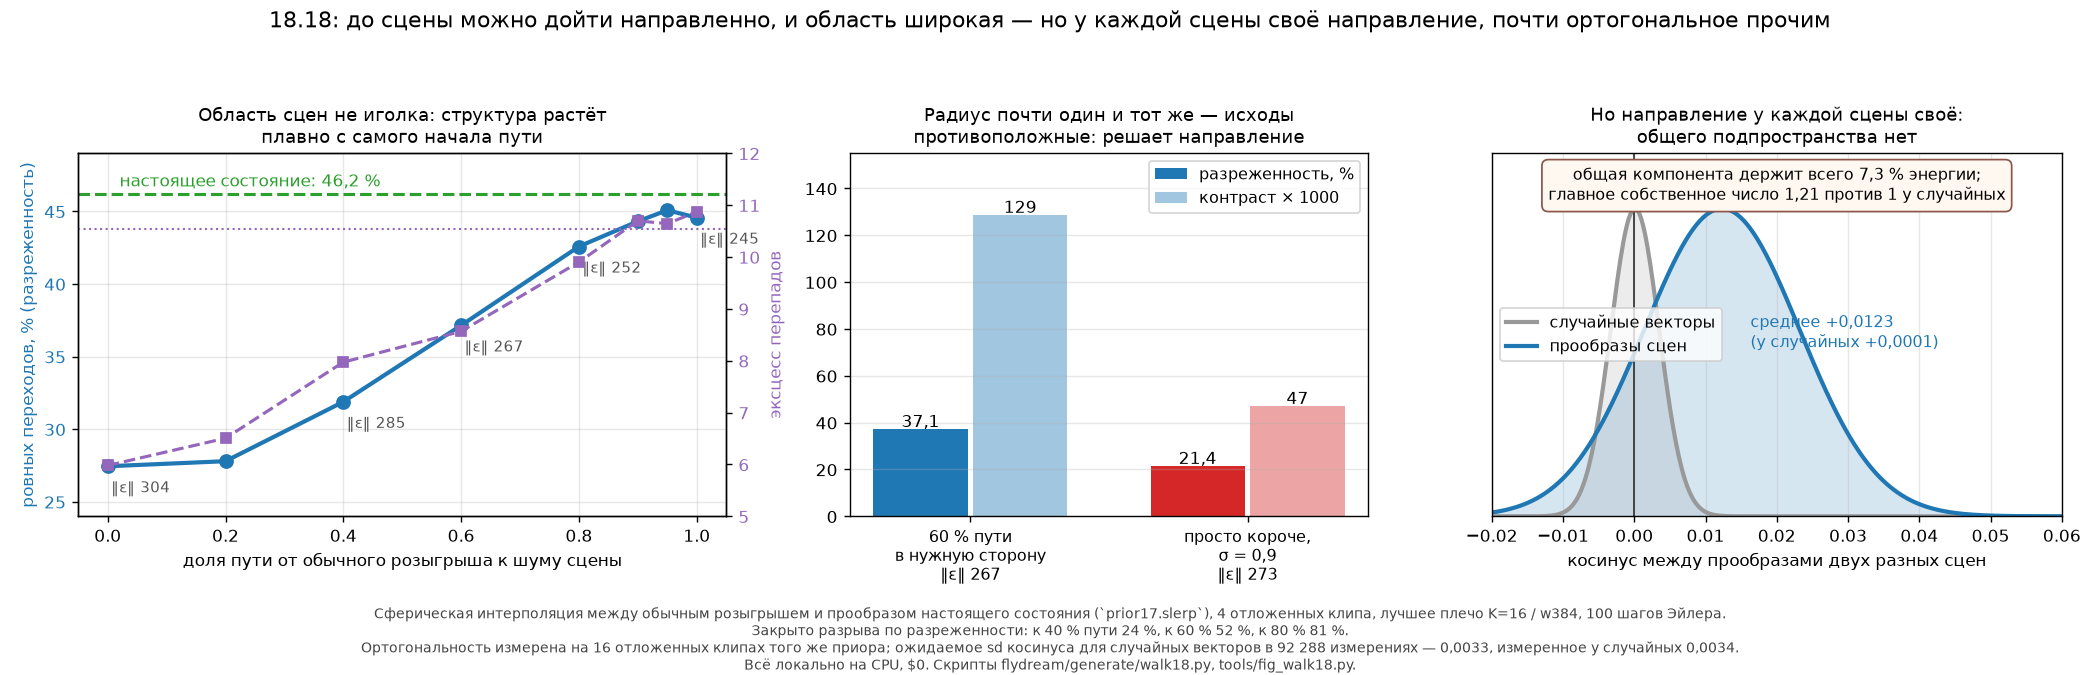
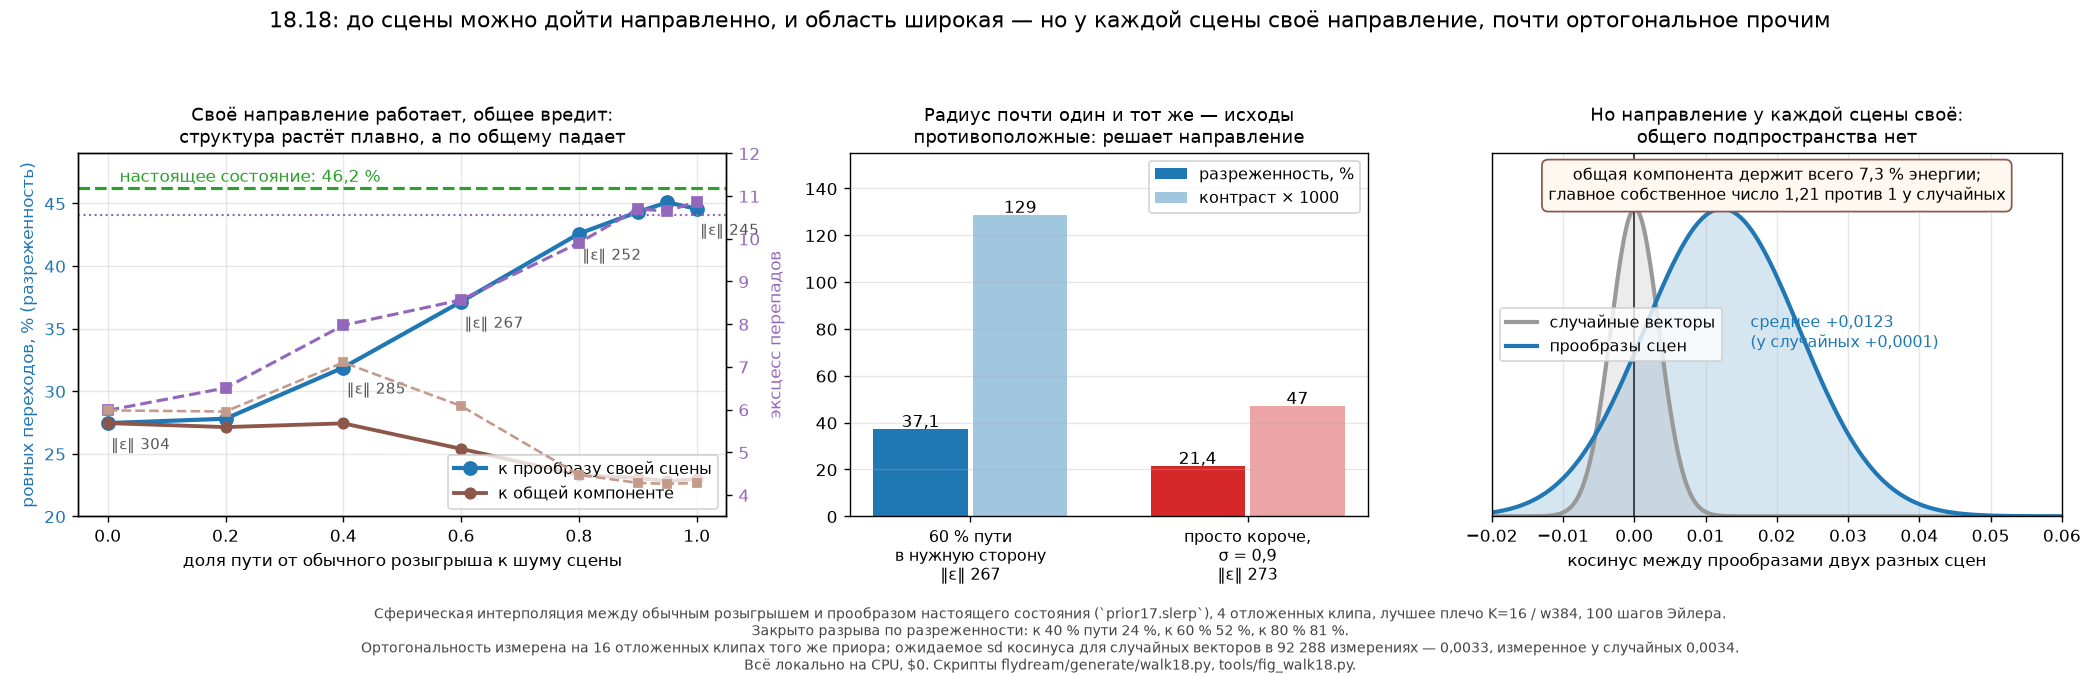
18.19 measured: the shared component of the scene preimages is a smoothing direction, not a scene direction - every global correction is now exhausted
Walking to it from an ordinary draw takes sparseness 27.4 to 23.0 percent and
coherence to 0.979 against a real band of 0.809-0.831, an almost uniform
gradient, while the gate reads 0.0119 - level with a real clip. With the
noise-length and radius-normalisation failures of 18.17, that closes every
correction that can be applied to all samples at once and leaves only a
per-sample mechanism, with the bit requirement 18.18 put a number on.

diff --git a/flydream/generate/walk18.py b/flydream/generate/walk18.py
@@ -40,6 +40,7 @@ from flydream.generate.roundtrip13 import build_states, round_trip
 
 def run(model: str, prior_ckpt, gen_ckpt, manifest: dict, columns: dict, corpus: Path, *,
         n_clips: int = 4, alphas=(0.0, 0.2, 0.4, 0.6, 0.8, 0.9, 0.95, 1.0), frames: int = 40,
+        target: str = "scene", n_shared: int = 16,
         margin: int = 5, dt: float = 0.02, t_pre: float = 1.0, steps: int = 100, fixed_point: int = 3,
         seed: int = 0, log=print) -> dict:
     t0 = time.time()
@@ -68,6 +69,23 @@ def run(model: str, prior_ckpt, gen_ckpt, manifest: dict, columns: dict, corpus:
     log(f"{n_clips} real states, clips {clip_idx.tolist()}, {time.time() - t0:.0f} s")
 
     eps_star = R.to_noise(prior, pmeta, real, steps=steps, fixed_point=fixed_point, device=dev)
+    if target == "shared":
+        # 18.19: 18.18 нашёл, что прообразы разных сцен почти ортогональны, а их
+        # общая компонента держит 7,35 % энергии. Это единственная глобальная
+        # поправка, которая вообще существует, и здесь она проверяется: конец
+        # пути — не прообраз своей сцены, а это общее направление, одно для всех.
+        pool = np.setdiff1d(np.asarray(cm["split"]["test"]), clip_idx)
+        idx_s = rng.choice(pool, n_shared, replace=False)
+        st_s = simulate_states(net, bank[idx_s], d.cells_all, dt, t_pre, 8).astype(np.float32)
+        m_s = L.to_maps(st_s.astype(np.float16), d.layout, len(DEEP))[:, :frames].astype(np.float32)
+        e_s = R.to_noise(prior, pmeta, (m_s - mean[None, None, :, None]) / std[None, None, :, None],
+                         steps=steps, fixed_point=fixed_point, device=dev)
+        fs = e_s.reshape(len(e_s), -1)
+        mv = fs.mean(0)
+        r_star = float(np.linalg.norm(fs, axis=1).mean())
+        eps_star = np.repeat((mv / np.linalg.norm(mv) * r_star)[None].astype(np.float32),
+                             n_clips, 0).reshape(eps_star.shape)
+        log(f"shared direction from {n_shared} other clips, put at radius {r_star:.1f}")
     g = torch.Generator(device=dev).manual_seed(4000 + seed)
     eps0 = torch.randn(eps_star.shape, device=dev, generator=g).cpu().numpy().astype(np.float32)
     log(f"inverted; ‖ε*‖ {np.linalg.norm(eps_star.reshape(n_clips, -1), axis=1).mean():.1f}, "
@@ -108,6 +126,7 @@ def run(model: str, prior_ckpt, gen_ckpt, manifest: dict, columns: dict, corpus:
                      "frac_flat": st["frac_flat"]["mean"], "kurtosis": st["grad_kurtosis"]["mean"],
                      "neigh_r": st["neigh_r"]["mean"], "sd": st["sd"]["mean"]})
     out = {"prior_ckpt": str(prior_ckpt), "n_clips": n_clips, "alphas": list(alphas), "steps": steps,
+           "target": target, "n_shared": n_shared,
            "seed": seed, "clip_idx": clip_idx.tolist(), "dims": int(np.prod(eps_star.shape[1:])),
            "typical_radius": float(np.sqrt(np.prod(eps_star.shape[1:]))), "rows": rows,
            "seconds": round(time.time() - t0, 1)}
@@ -130,6 +149,9 @@ def main(argv=None) -> int:
     p.add_argument("--tag", default="walk18_local")
     p.add_argument("--clips", type=int, default=4)
     p.add_argument("--alphas", default="0,0.2,0.4,0.6,0.8,0.9,0.95,1.0")
+    p.add_argument("--target", default="scene", choices=["scene", "shared"],
+                   help="конец пути: прообраз своей сцены или общая компонента (18.19)")
+    p.add_argument("--n-shared", type=int, default=16)
     p.add_argument("--steps", type=int, default=100)
     p.add_argument("--seed", type=int, default=0)
     a = p.parse_args(argv)
@@ -140,7 +162,7 @@ def main(argv=None) -> int:
     r = run(a.model, Path(a.prior), Path(a.gen), manifest, columns, Path(a.corpus), n_clips=a.clips,
             alphas=tuple(float(x) for x in a.alphas.split(",")), frames=g.get("frames", 40),
             margin=g.get("margin", 5), dt=g.get("dt", 0.02), t_pre=g.get("t_pre", 1.0),
-            steps=a.steps, seed=a.seed)
+            steps=a.steps, target=a.target, n_shared=a.n_shared, seed=a.seed)
     (out / f"{a.tag}.json").write_text(json.dumps(r["summary"], indent=1, ensure_ascii=False), encoding="utf-8")
     np.savez_compressed(out / f"{a.tag}.npz", **r["arrays"])
     S = r["summary"]

diff --git a/tools/fig_walk18.py b/tools/fig_walk18.py
@@ -35,6 +35,7 @@ def main(argv=None) -> int:
     p = argparse.ArgumentParser()
     p.add_argument("--run", default=str(ROOT / "data" / "prior18"))
     p.add_argument("--src", default="walk18_local")
+    p.add_argument("--shared", default="walk18_shared")
     p.add_argument("--out", default=str(ROOT / "reports" / "figures" / "2026-09-20_malecns_walk18.png"))
     a = p.parse_args(argv)
     run = Path(a.run)
@@ -42,6 +43,8 @@ def main(argv=None) -> int:
     S = json.loads((run / f"{a.src}.json").read_text(encoding="utf-8"))
     rows = [r for r in S["rows"] if r["alpha"] is not None]
     real = next(r for r in S["rows"] if r["alpha"] is None)
+    H = json.loads((run / f"{a.shared}.json").read_text(encoding="utf-8"))
+    sh = [r for r in H["rows"] if r["alpha"] is not None]
 
     import matplotlib
     matplotlib.use("Agg")
@@ -55,22 +58,26 @@ def main(argv=None) -> int:
     ax1.axhline(100 * real["frac_flat"], color="#2ca02c", ls="--", lw=1.8)
     ax1.text(0.02, 100 * real["frac_flat"] + 0.5, f"настоящее состояние: {ru(f'{100 * real['frac_flat']:.1f}')} %",
              fontsize=9.5, color="#2ca02c")
-    ax1.plot(al, fl, "o-", color="#1f77b4", lw=2.4, ms=7.5)
+    ax1.plot(al, fl, "o-", color="#1f77b4", lw=2.4, ms=7.5, label="к прообразу своей сцены")
+    ax1.plot([r["alpha"] for r in sh], [100 * r["frac_flat"] for r in sh], "o-", color="#8c564b",
+             lw=2.2, ms=6, label="к общей компоненте")
+    ax1.legend(fontsize=9, loc="lower right")
     for r, f in zip(rows, fl):
         if r["alpha"] in (0.0, 0.4, 0.6, 0.8, 1.0):
             ax1.annotate(f"‖ε‖ {r['radius']:.0f}", (r["alpha"], f), textcoords="offset points",
                          xytext=(2, -15), fontsize=8.6, color="#555")
     ax1.set_ylabel("ровных переходов, % (разреженность)", color="#1f77b4")
     ax1.tick_params(axis="y", labelcolor="#1f77b4")
-    ax1.set_ylim(24, 49)
+    ax1.set_ylim(20, 49)
     ax1b = ax1.twinx()
     ax1b.plot(al, ku, "s--", color="#9467bd", lw=1.8, ms=5.5)
+    ax1b.plot([r["alpha"] for r in sh], [r["kurtosis"] for r in sh], "s--", color="#c49a8a", lw=1.5, ms=4.5)
     ax1b.axhline(real["kurtosis"], color="#9467bd", ls=":", lw=1.2)
     ax1b.set_ylabel("эксцесс перепадов", color="#9467bd")
     ax1b.tick_params(axis="y", labelcolor="#9467bd")
-    ax1b.set_ylim(5, 12)
+    ax1b.set_ylim(3.5, 12)
     ax1.set_xlabel("доля пути от обычного розыгрыша к шуму сцены")
-    ax1.set_title("Область сцен не иголка: структура растёт\nплавно с самого начала пути", fontsize=10.5)
+    ax1.set_title("Своё направление работает, общее вредит:\nструктура растёт плавно, а по общему падает", fontsize=10.5)
     ax1.grid(alpha=0.3)
 
     r06 = next(r for r in rows if r["alpha"] == 0.6)
